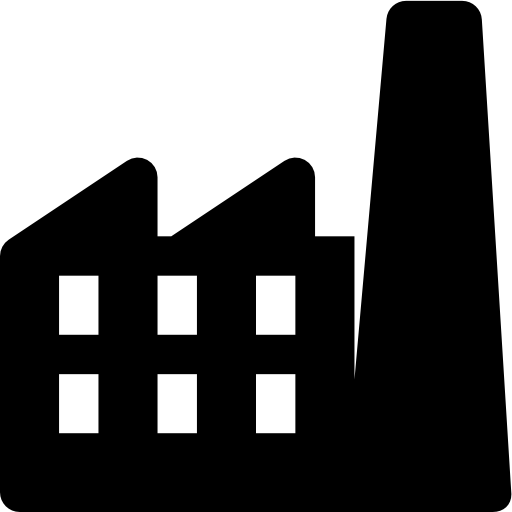
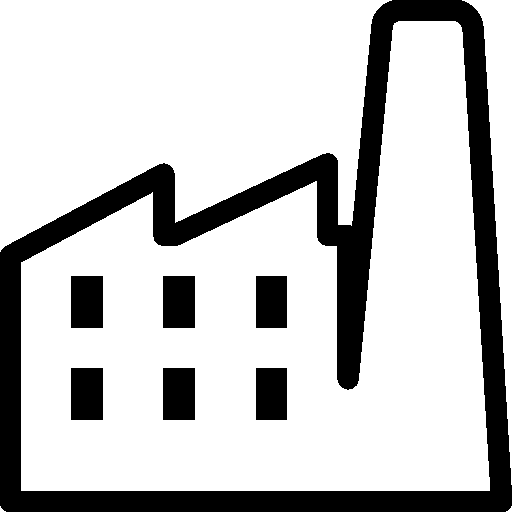
Final Commit. Added background image with transparency

diff --git a/templates/demo.html b/templates/demo.html
@@ -11,6 +11,7 @@
     border: 1px solid #aaaaaa;
     overflow-y: scroll;
 }
+
 #droptarget_left{
     width: 200px;
 }
@@ -28,17 +29,24 @@
 #tips{
     column-count: 8
 }
+#div_with_bg{
+    position:relative;
+    background-image: url(../static/images/background_page.jpg);
+    /*opacity: 0.1;*/
+    /*background: rgba(204, 204, 204, 0.5);*/
+    height: 1000px;
+}
 </style>
 </head>
 
+<div id="div_with_bg" >
 <body>
-
 <center>
 <div id="top_instruction">
 <button type="button" onclick="start_timer()" class="btn btn-success">Start Game</button>
 </div>
 
-<div style="margin: 10px">Game finishes in <span id="time"></span> minutes!</div>
+<div style="margin: 10px; color:white">Game finishes in <span id="time"></span> minutes!</div>
 
 <div class="progress" style="width: 1500px">
   <div id="one" class="progress-bar progress-bar-success" style="width: 0%">
@@ -71,7 +79,7 @@
 
 <br />
 
-<img id="drag7" src="../static/images/Industry.png" draggable="true" width="70" height="50" name="industry">
+<img id="drag7" src="../static/images/download.png" draggable="true" width="70" height="50" name="industry">
 
 <br />
 
@@ -84,14 +92,14 @@
 <div style="background-color: lightgreen" class="droptarget" id="droptarget_right"></div>
 
 <div class="parameters">
-<form class="parameters" action="/action_page.php">
-  Budget: <input type="text" id="budget" name="country" value="100000" readonly><br>
+<form class="parameters" action="/action_page.php"  style="color:white">
+  Budget: <input type="text" id="budget" name="country" value="100000"  style="color:black" readonly><br>
 
-  Carbon Emission: <input type="text" id="carbon" name="country" value="0" readonly><br>
+  Carbon Emission: <input type="text" id="carbon" name="country" value="0"  style="color:black" readonly><br>
 
-  Population: <input type="text" id="population" name="country" value="10000" readonly><br>
+  Population: <input type="text" id="population" name="country" value="10000"  style="color:black" readonly><br>
 
-  Employement Rate: <input type="text" id="employment" name="country" value="0" readonly><br>
+  Employement Rate: <input type="text" id="employment" name="country" value="0"  style="color:black" readonly><br>
 </form> <br />
 <img src="../static/images/key.png" height="300px">
 </div>
@@ -105,15 +113,12 @@
 <center>
     <div id="tip_message" style="width:500px" class="alert alert-info" role="alert">Tip:</div>
 </center>
-</div>
 
-</div>
 <center>
     <div id="alert_message" style="width:500px" class="alert alert-success" role="alert">iCarto</div>
 </center>
+</body>
 </div>
-
-
 
 <script>
 var budget = document.getElementById("budget").value;
@@ -233,7 +238,7 @@ document.addEventListener("drop", function(event) {
 
             if(dropped_element_name == "tree"){
                 parameter_values[0]++;
-                var carbon_new = parseFloat(carbon, 10) - parseFloat(carbon, 10) * 0.05;
+                var carbon_new = parseFloat(carbon, 10) - 0.05;
                 document.getElementById("carbon").value = carbon_new;
                 carbon = parseFloat(carbon_new, 10);
             }

diff --git a/templates/base.html b/templates/base.html
@@ -38,7 +38,7 @@
 	        <li class="dropdown">
 	          <a href="#" class="dropdown-toggle" data-toggle="dropdown" role="button" aria-expanded="false">Account <span class="caret"></span></a>
 	          <ul class="dropdown-menu" role="menu">
-	            <li><a href="/home">home</a></li>
+	            <li><a href="/home">Play Game</a></li>
 	            <li><a href="/">See game rules</a></li>
 	            <li><a href="#">About us</a></li>
 	            <li class="divider"></li>

diff --git a/README.md b/README.md
@@ -4,4 +4,4 @@ Command to run the project:<br />
 python manage.py runserver 8080<br />
 
 <h1> Login Page </h1>
-![Alt text](./screenshots/1.png?raw=true "Optional Title")
+![ScreenShot](https://raw.github.com/{ShreekanthNadig}/{Juincubator_hackathon}/{master}/{screenshot/1.png})
